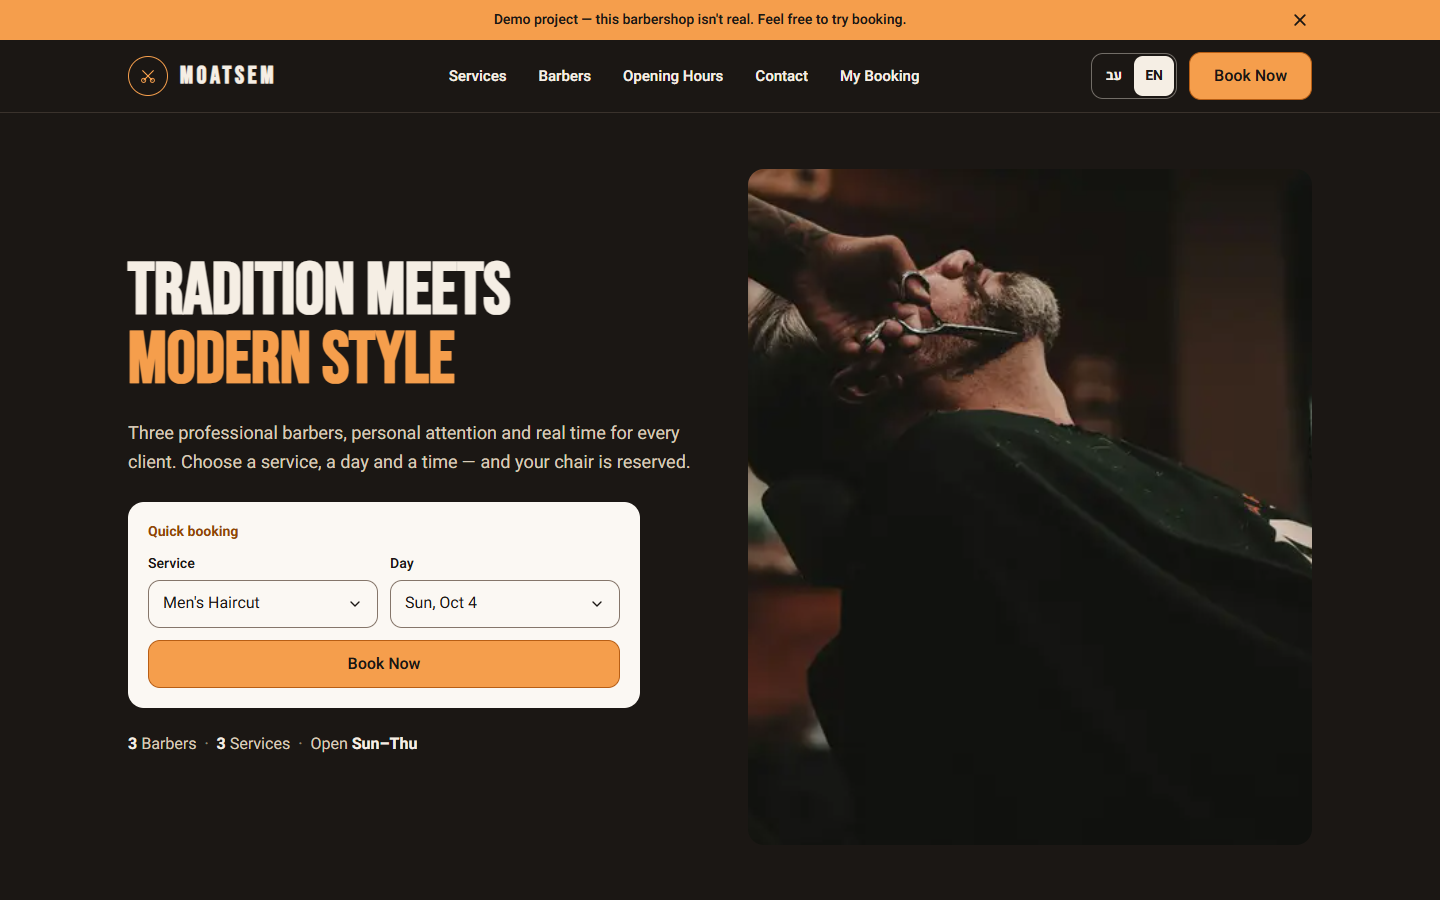
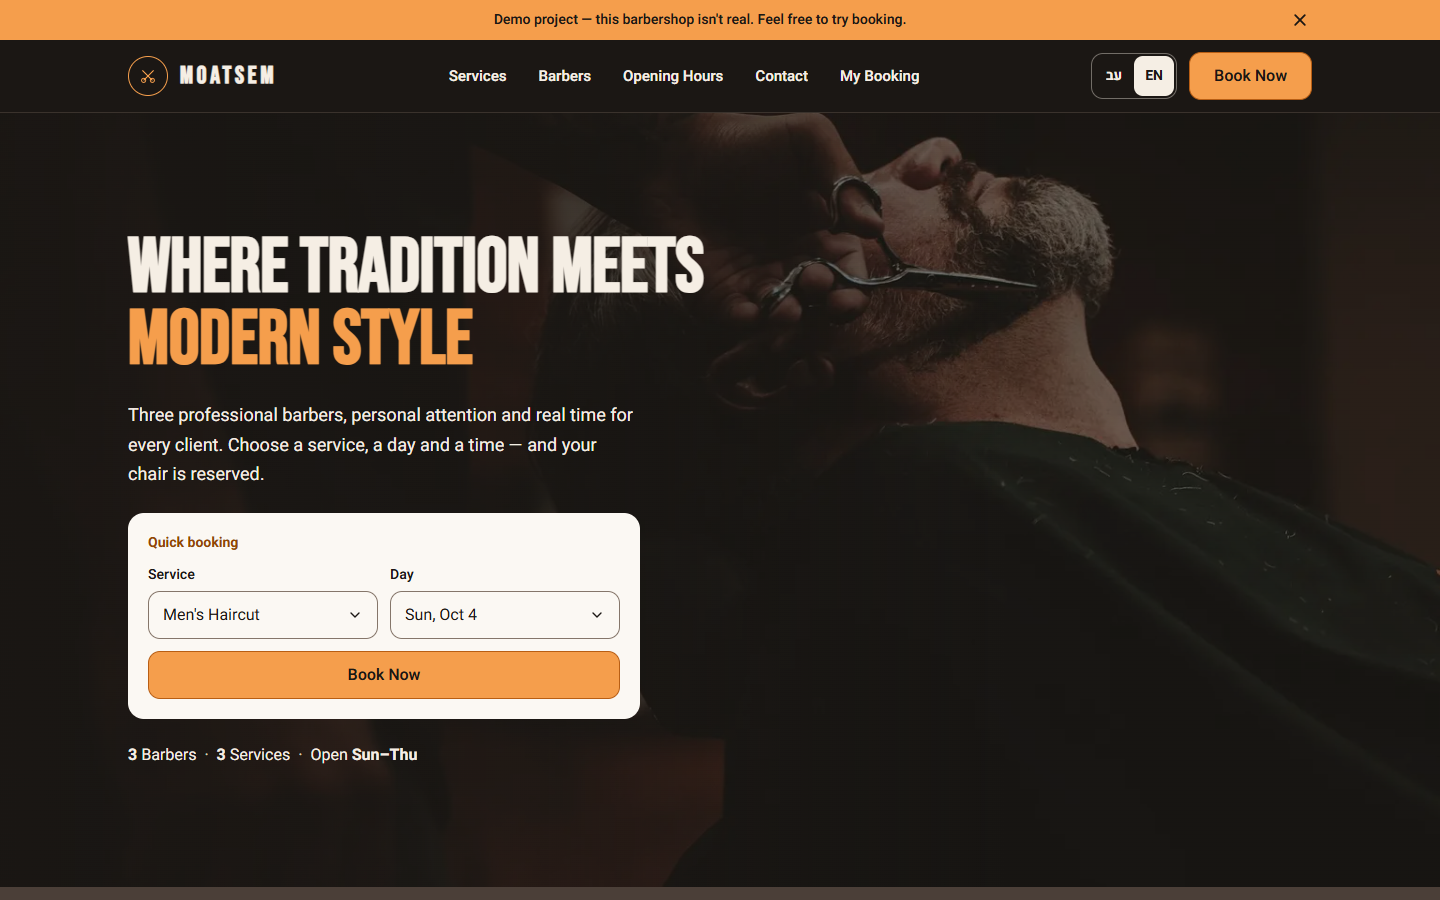
fix: price list rows open the booking flow; full-bleed hero photo; new headline
- Price list: rows and their "הזמינו" link now always scroll to the booking
  flow with that service pre-selected on step 2. The flow only scrolled when
  the step number changed, so nothing seemed to happen once it was already
  on step 2 (e.g. after the quick-booking card or a previous row); reveal
  requests are now counted instead. One arrow per row: an unlayered
  display:inline-block was overriding Tailwind's sm:hidden (and the price's
  inline-flex)
- Hero: the photo is a full-width background under the header with a dark
  scrim (55% solid, ~85% on the text side); headline, text, quick-booking
  card and stats sit on top on the start side. 86svh on desktop; on phones
  the content sits at the bottom so the headline and "הזמינו תור" are on the
  first screen and the face and hands stay visible above. On desktop the
  photo is offset toward the end side so the text never covers the subject.
  Measured text contrast on the real photo: ≥ 5.8:1 (orange line), ≥ 10:1
  body text
- Headline: "מספרה קלאסית. / סטייל של היום." and "Where tradition meets /
  modern style"; HEBREW_COPY.md, DESIGN_SYSTEM.md and README screenshots
  updated

Changed region(s): [[0.0625, 0.1244, 0.9375, 0.8711], [0.0, 0.9644, 1.0, 1.0], [0.5, 0.5289, 0.5938, 0.84]]

diff --git a/src/components/home/Hero.tsx b/src/components/home/Hero.tsx
@@ -3,9 +3,13 @@ import { QuickBookCard } from "@/components/booking/QuickBookCard";
 import type { Dictionary } from "@/i18n";
 
 /**
- * Dark hero: big barber photo, condensed display headline (second line in the
- * orange accent), a short line, and the quick-booking card. On a phone the
- * photo, headline and the card's "Book" button all fit on the first screen.
+ * Full-bleed hero: the barber photo covers the whole section (edge to edge,
+ * right under the header) behind a dark scrim (.hero-scrim in globals.css:
+ * 55% solid, stronger on the text side). Headline, short text, the
+ * quick-booking card and the stats sit on top, on the start side (right in
+ * Hebrew, left in English). On a phone the content sits at the bottom so the
+ * barber's face and hands stay visible above it, and the headline and the
+ * card's "Book" button fit on the first screen.
  */
 export function Hero({ dict }: { dict: Dictionary }) {
   const stats = [
@@ -15,27 +19,31 @@ export function Hero({ dict }: { dict: Dictionary }) {
   ];
 
   return (
-    <section id="home" data-hero className="tone-dark bg-ink text-on-ink">
-      <div className="container-page grid items-center gap-5 pt-4 pb-8 lg:min-h-[calc(100svh-var(--header-height)-40px)] lg:grid-cols-[1fr_1fr] lg:gap-14 lg:py-14">
-        <div className="relative order-first h-[clamp(170px,27svh,320px)] overflow-hidden rounded-lg lg:order-last lg:h-full lg:max-h-[680px] lg:min-h-[520px]">
-          <Image
-            src="/images/hero/hero-barbershop.jpg"
-            alt={dict.hero.imageAlt}
-            fill
-            preload
-            sizes="(min-width: 1024px) 50vw, 100vw"
-            quality={75}
-            className="object-cover object-[70%_35%]"
-          />
-        </div>
+    <section id="home" data-hero className="tone-dark relative isolate overflow-hidden bg-ink text-on-ink">
+      {/* Face and hands sit around 40–62% across, 10–35% down in the photo. On desktop the
+          photo box is 125% wide and anchored to the start edge, which moves the barber
+          away from the text column (right in English, left in Hebrew). */}
+      <div className="absolute inset-y-0 start-0 -z-20 w-full lg:w-[125%]">
+        <Image
+          src="/images/hero/hero-barbershop.jpg"
+          alt={dict.hero.imageAlt}
+          fill
+          preload
+          sizes="(min-width: 1024px) 125vw, 100vw"
+          quality={75}
+          className="object-cover object-[52%_18%] lg:object-[50%_28%]"
+        />
+      </div>
+      <div aria-hidden="true" className="hero-scrim absolute inset-0 -z-10" />
 
-        <div className="flex flex-col items-start gap-4 lg:gap-6">
-          <h1 className="font-display text-[56px] leading-[0.95] font-bold text-balance lg:text-[64px] xl:text-[72px]">
+      <div className="container-page flex min-h-[calc(100svh-var(--header-height)-40px)] flex-col justify-end pt-28 pb-6 lg:min-h-[86svh] lg:justify-center lg:py-16">
+        <div className="flex max-w-xl flex-col items-start gap-4 lg:gap-6">
+          <h1 className="font-display text-[56px] leading-[0.95] font-bold text-balance lg:text-[68px] xl:text-[76px]">
             <span className="block">{dict.hero.titleLead}</span>
             <span className="block text-brand">{dict.hero.titleHighlight}</span>
           </h1>
 
-          <p className="max-w-xl text-base leading-relaxed text-on-ink-muted sm:text-lg">
+          <p className="max-w-lg text-base leading-relaxed text-on-ink sm:text-lg">
             <span className="sm:hidden">{dict.hero.subtitleShort}</span>
             <span className="hidden sm:inline">{dict.hero.subtitle}</span>
           </p>
@@ -43,24 +51,24 @@ export function Hero({ dict }: { dict: Dictionary }) {
           <QuickBookCard />
 
           {/* One line, number first: "3 ספרים · 3 שירותים · פתוח א׳–ה׳". */}
-          <ul className="flex flex-wrap items-center gap-x-2 gap-y-1 text-[15px] text-on-ink-muted sm:text-base">
+          <ul className="flex flex-wrap items-center gap-x-2 gap-y-1 text-[15px] text-on-ink sm:text-base">
             {stats.map((stat, index) => (
               <li key={stat.key} className="flex items-center gap-2">
                 {index > 0 ? (
-                  <span aria-hidden="true" className="text-on-ink-muted/60">
+                  <span aria-hidden="true" className="text-on-ink-muted">
                     ·
                   </span>
                 ) : null}
                 <span>
                   {stat.valueFirst ? (
                     <>
-                      <strong className="font-bold text-on-ink">{stat.value}</strong> {stat.label}
+                      <strong className="font-bold">{stat.value}</strong> {stat.label}
                     </>
                   ) : (
                     <>
                       {stat.label}{" "}
                       {/* <bdi> picks direction from the content: "א׳–ה׳" stays RTL, "Sun–Thu" LTR. */}
-                      <strong className="font-bold text-on-ink">
+                      <strong className="font-bold">
                         <bdi>{stat.value}</bdi>
                       </strong>
                     </>

diff --git a/src/components/booking/BookingWidget.tsx b/src/components/booking/BookingWidget.tsx
@@ -81,7 +81,6 @@ export function BookingWidget({ services, isBookingConfigured }: BookingWidgetPr
 
   const sectionRef = useRef<HTMLElement>(null);
   const headingRef = useRef<HTMLHeadingElement>(null);
-  const shouldRevealRef = useRef(false);
 
   const selectedService = services.find((service) => service.id === serviceId) ?? null;
   const dayKey = serviceId ? `${serviceId}|${date}` : null;
@@ -132,17 +131,20 @@ export function BookingWidget({ services, isBookingConfigured }: BookingWidgetPr
   // Navigation between steps: scroll the flow into view and focus the new heading.
   // ---------------------------------------------------------------------------
 
+  // A counter rather than "step changed": a price row or the quick-booking card
+  // must still bring the flow into view when it is already on step 2.
+  const [revealRequest, setRevealRequest] = useState(0);
+
   const goToStep = useCallback((next: Step) => {
-    shouldRevealRef.current = true;
     setStep(next);
+    setRevealRequest((count) => count + 1);
   }, []);
 
   useEffect(() => {
-    if (!shouldRevealRef.current) return;
-    shouldRevealRef.current = false;
+    if (revealRequest === 0) return;
     sectionRef.current?.scrollIntoView({ block: "start", behavior: prefersReducedMotion() ? "auto" : "smooth" });
     headingRef.current?.focus({ preventScroll: true });
-  }, [step, confirmation]);
+  }, [revealRequest]);
 
   // "Book this service" buttons elsewhere on the page pre-select a service and jump to step 2.
   useEffect(() => {
@@ -272,8 +274,8 @@ export function BookingWidget({ services, isBookingConfigured }: BookingWidgetPr
         notes: details.notes || undefined,
       }).then((result) => {
         if (result.success) {
-          shouldRevealRef.current = true;
           setConfirmation(result.data);
+          setRevealRequest((count) => count + 1);
         } else {
           setSubmitError(result.error);
           // The slot may have just been taken: refetch this day the next time it is shown.

diff --git a/src/app/globals.css b/src/app/globals.css
@@ -296,9 +296,10 @@ a,
 .price-row__thumb img {
   transition: transform 600ms var(--ease-out-soft);
 }
+/* No display override here: these rules are unlayered and would beat the
+   Tailwind display utilities on the same elements (inline-flex, hidden). */
 .price-row__price,
 .price-row__arrow {
-  display: inline-block;
   transition: transform 250ms var(--ease-out-soft);
 }
 
@@ -442,5 +443,29 @@ a,
   }
   [data-reveal="in"] {
     animation: none;
+  }
+}
+
+/* ---- Hero scrim ----
+ * A solid 55% ink layer over the whole photo, plus a gradient that darkens the
+ * text side further (to ~85%): the bottom on phones, where the content sits,
+ * and the start edge on desktop (right in Hebrew, left in English). Measured
+ * text contrast on top of the real photo is ≥ 4.5:1 (see DESIGN_SYSTEM.md). */
+.hero-scrim {
+  background:
+    linear-gradient(to bottom, rgb(27 23 20 / 0) 12%, rgb(27 23 20 / 0.66) 40%),
+    linear-gradient(rgb(27 23 20 / 0.55), rgb(27 23 20 / 0.55));
+}
+
+@media (min-width: 1024px) {
+  .hero-scrim {
+    background:
+      linear-gradient(to right, rgb(27 23 20 / 0.66) 0%, rgb(27 23 20 / 0.5) 38%, rgb(27 23 20 / 0) 70%),
+      linear-gradient(rgb(27 23 20 / 0.55), rgb(27 23 20 / 0.55));
+  }
+  [dir="rtl"] .hero-scrim {
+    background:
+      linear-gradient(to left, rgb(27 23 20 / 0.66) 0%, rgb(27 23 20 / 0.5) 38%, rgb(27 23 20 / 0) 70%),
+      linear-gradient(rgb(27 23 20 / 0.55), rgb(27 23 20 / 0.55));
   }
 }

diff --git a/src/components/home/Services.tsx b/src/components/home/Services.tsx
@@ -47,11 +47,11 @@ export function Services({ dict, locale }: { dict: Dictionary; locale: Locale })
                       <span className="font-display text-[40px] leading-none font-bold tabular-nums">{parts.amount}</span>
                       {parts.symbolFirst ? null : symbol}
                     </span>
-                    <span className="hidden items-center gap-1 text-sm font-bold text-accent sm:inline-flex">
-                      {dict.services.bookShort}
-                      <ForwardIcon className="price-row__arrow h-4 w-4" />
+                    {/* One arrow at every width; the "הזמינו" label joins it from sm up. */}
+                    <span className="inline-flex items-center gap-1 text-sm font-bold text-accent">
+                      <span className="hidden sm:inline">{dict.services.bookShort}</span>
+                      <ForwardIcon className="price-row__arrow h-5 w-5" />
                     </span>
-                    <ForwardIcon className="price-row__arrow h-5 w-5 text-accent sm:hidden" />
                   </span>
                 </BookServiceLink>
               </li>

diff --git a/src/i18n/he.ts b/src/i18n/he.ts
@@ -41,8 +41,8 @@ export const he: Dictionary = {
 
   hero: {
     badge: "מספרת בוטיק",
-    titleLead: "מסורת שפוגשת",
-    titleHighlight: "סטייל מודרני",
+    titleLead: "מספרה קלאסית.",
+    titleHighlight: "סטייל של היום.",
     subtitle:
       "שלושה ספרים מקצועיים, יחס אישי וזמן אמיתי בכל ביקור. בוחרים שירות, יום ושעה – והכיסא שמור לכם.",
     subtitleShort: "יחס אישי, דיוק בכל פרט, ותור שנקבע בתוך דקה.",

diff --git a/src/i18n/en.ts b/src/i18n/en.ts
@@ -40,7 +40,7 @@ export const en = {
 
   hero: {
     badge: "Boutique Barbershop",
-    titleLead: "Tradition meets",
+    titleLead: "Where tradition meets",
     titleHighlight: "modern style",
     subtitle:
       "Three professional barbers, personal attention and real time for every client. Choose a service, a day and a time — and your chair is reserved.",

diff --git a/DESIGN_SYSTEM.md b/DESIGN_SYSTEM.md
@@ -142,9 +142,10 @@ Defined in `globals.css` (`.price-row`, `.barber-card`, `[data-reveal]`) and `Sc
 - **Mobile menu:** full-height `ink` sheet (portalled), with 56 px rows: הזמנת תור · התור שלי · שירותים · הספרים · שעות פעילות · צור קשר. Below them sit the language switch and a pinned `brand` button. It traps focus, closes on Esc, and locks page scroll.
 
 ### Hero
-- `ink` ground.
-- **Phones:** a large photo (`27svh`), then the headline (first line `on-ink`, second line `brand`), the short subtitle, the quick-booking card and the stats line. The card's button sits on the first screen.
-- **Desktop:** text and card on the start side, a tall photo on the end side.
+- **Full-bleed photo:** the barber photo covers the whole hero edge to edge, right under the header (`object-fit: cover`). On desktop the photo box is 125% wide and anchored to the start edge, so the barber's face and hands sit on the side opposite the text.
+- **Scrim** (`.hero-scrim`): a solid 55% `ink` layer plus a gradient to about 85% on the text side (the bottom on phones, the start edge on desktop). Measured against the lightest photo pixel behind each line, the worst case is 5.9:1 (the orange headline line); body text is at least 10:1.
+- **Content on top**, on the start side (right in Hebrew, left in English): the headline (first line `on-ink`, second line `brand`), the short text, the quick-booking card and the stats line.
+- **Height:** `86svh` on desktop. On phones it fills the first screen below the header and banner, with the content at the bottom, so the headline and the card's "הזמינו תור" button are visible without scrolling.
 - **Quick-booking card** (`.tone-light`, `surface`): service and day as native `<select>`s side by side, then a `brand` "הזמינו תור" button. It dispatches the book-service event with both choices, so the booking flow opens at step 2 with them pre-selected.
 
 ### About band
@@ -153,8 +154,8 @@ Defined in `globals.css` (`.price-row`, `.barber-card`, `[data-reveal]`) and `Sc
 
 ### Price list
 - `canvas` ground, centred, max 768 px wide, with 1px dividers above and below each row.
-- **Row:** thumbnail 64–80 px (16 px radius) · name (bold) + duration (and the description from `sm` up) · price in the display face · "הזמינו" + arrow (arrow only on phones).
-- The whole row is a link with a full accessible name ("הזמינו תספורת גברים, 45 דק׳, 50 ₪"). It pre-selects the service in the booking flow.
+- **Row:** thumbnail 64–80 px (16 px radius) · name (bold) + duration (and the description from `sm` up) · price in the display face · one arrow (with the "הזמינו" label from `sm` up).
+- The whole row is one link with a full accessible name ("הזמינו תספורת גברים, 45 דק׳, 50 ₪"). It scrolls to the booking flow with that service pre-selected on step 2, even when the flow is already open.
 
 ### Barber card
 - **Homepage:** portrait photo (3:4), name in the display face (34 px), and role (`accent` for the owner). On phones they sit in a 70%-wide swipe row; on desktop, 3 columns.

diff --git a/HEBREW_COPY.md b/HEBREW_COPY.md
@@ -57,8 +57,8 @@ Every Hebrew string on the site and in the emails, grouped by section. It is gen
 | Key | Hebrew |
 |---|---|
 | `badge` | מספרת בוטיק |
-| `titleLead` | מסורת שפוגשת |
-| `titleHighlight` | סטייל מודרני |
+| `titleLead` | מספרה קלאסית. |
+| `titleHighlight` | סטייל של היום. |
 | `subtitle` | שלושה ספרים מקצועיים, יחס אישי וזמן אמיתי בכל ביקור. בוחרים שירות, יום ושעה – והכיסא שמור לכם. |
 | `subtitleShort` | יחס אישי, דיוק בכל פרט, ותור שנקבע בתוך דקה. |
 | `imageAlt` | ספר מסדר במספריים זקן של לקוח, במספרה באור חמים ועמום |
